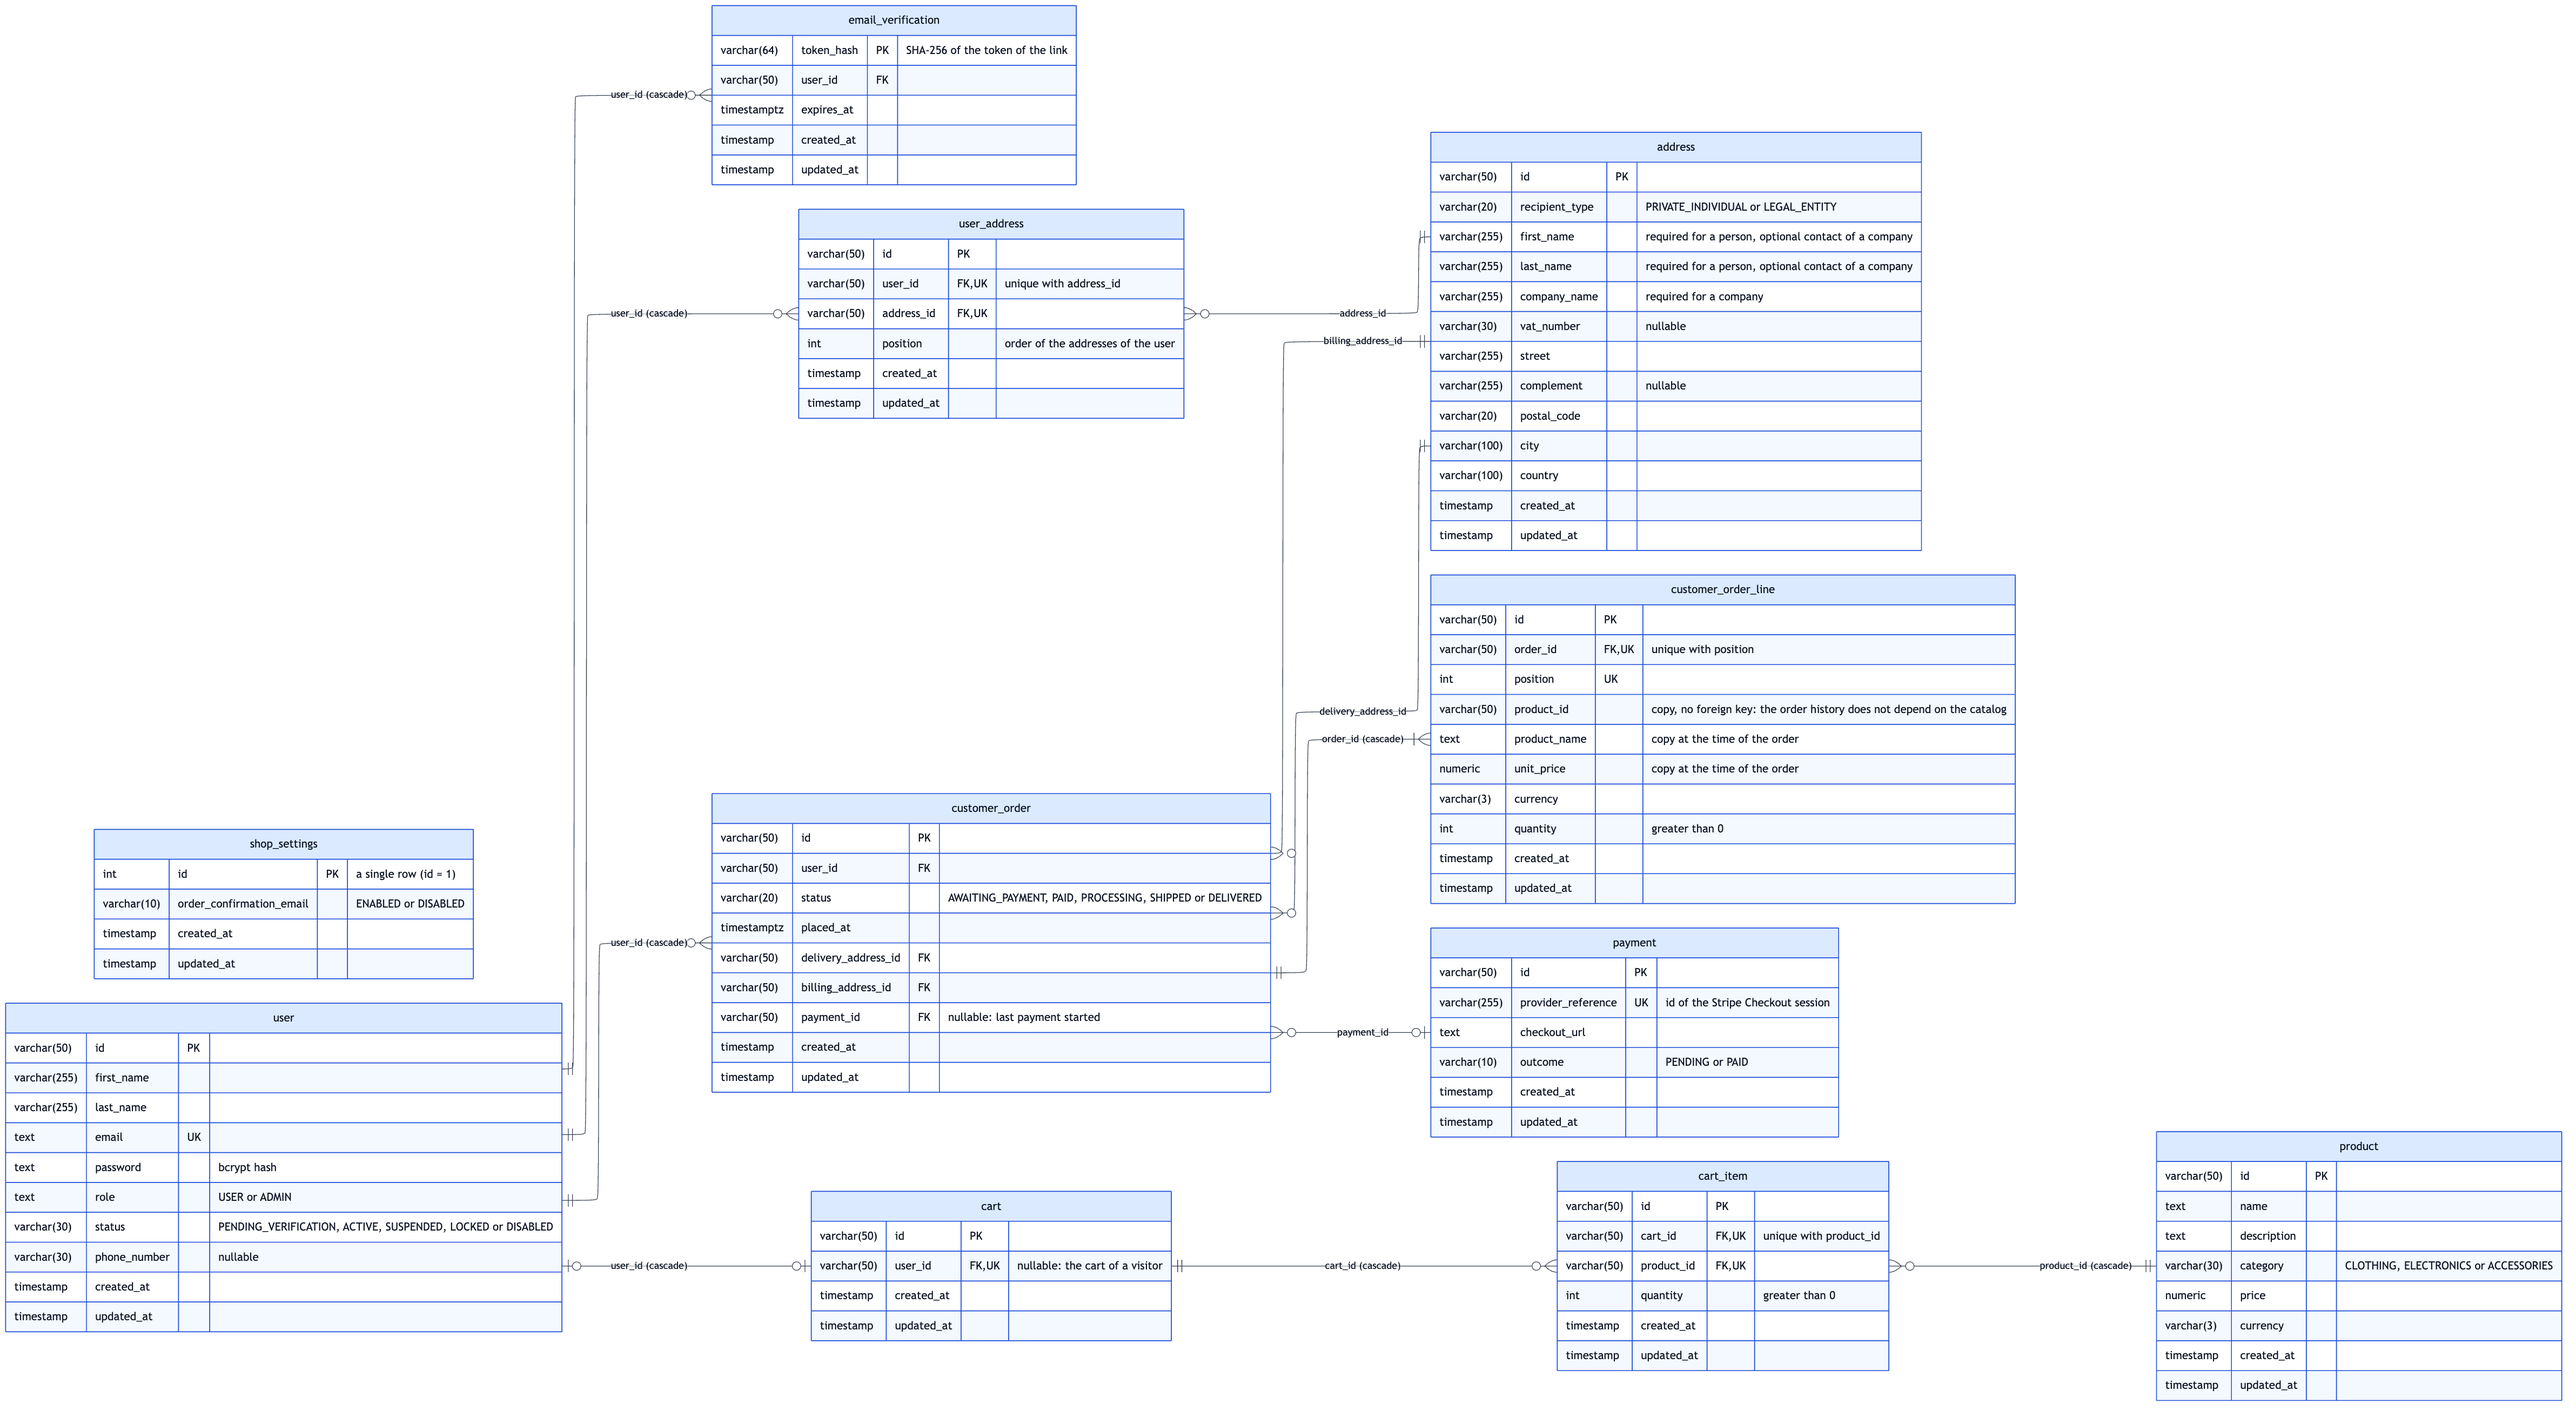
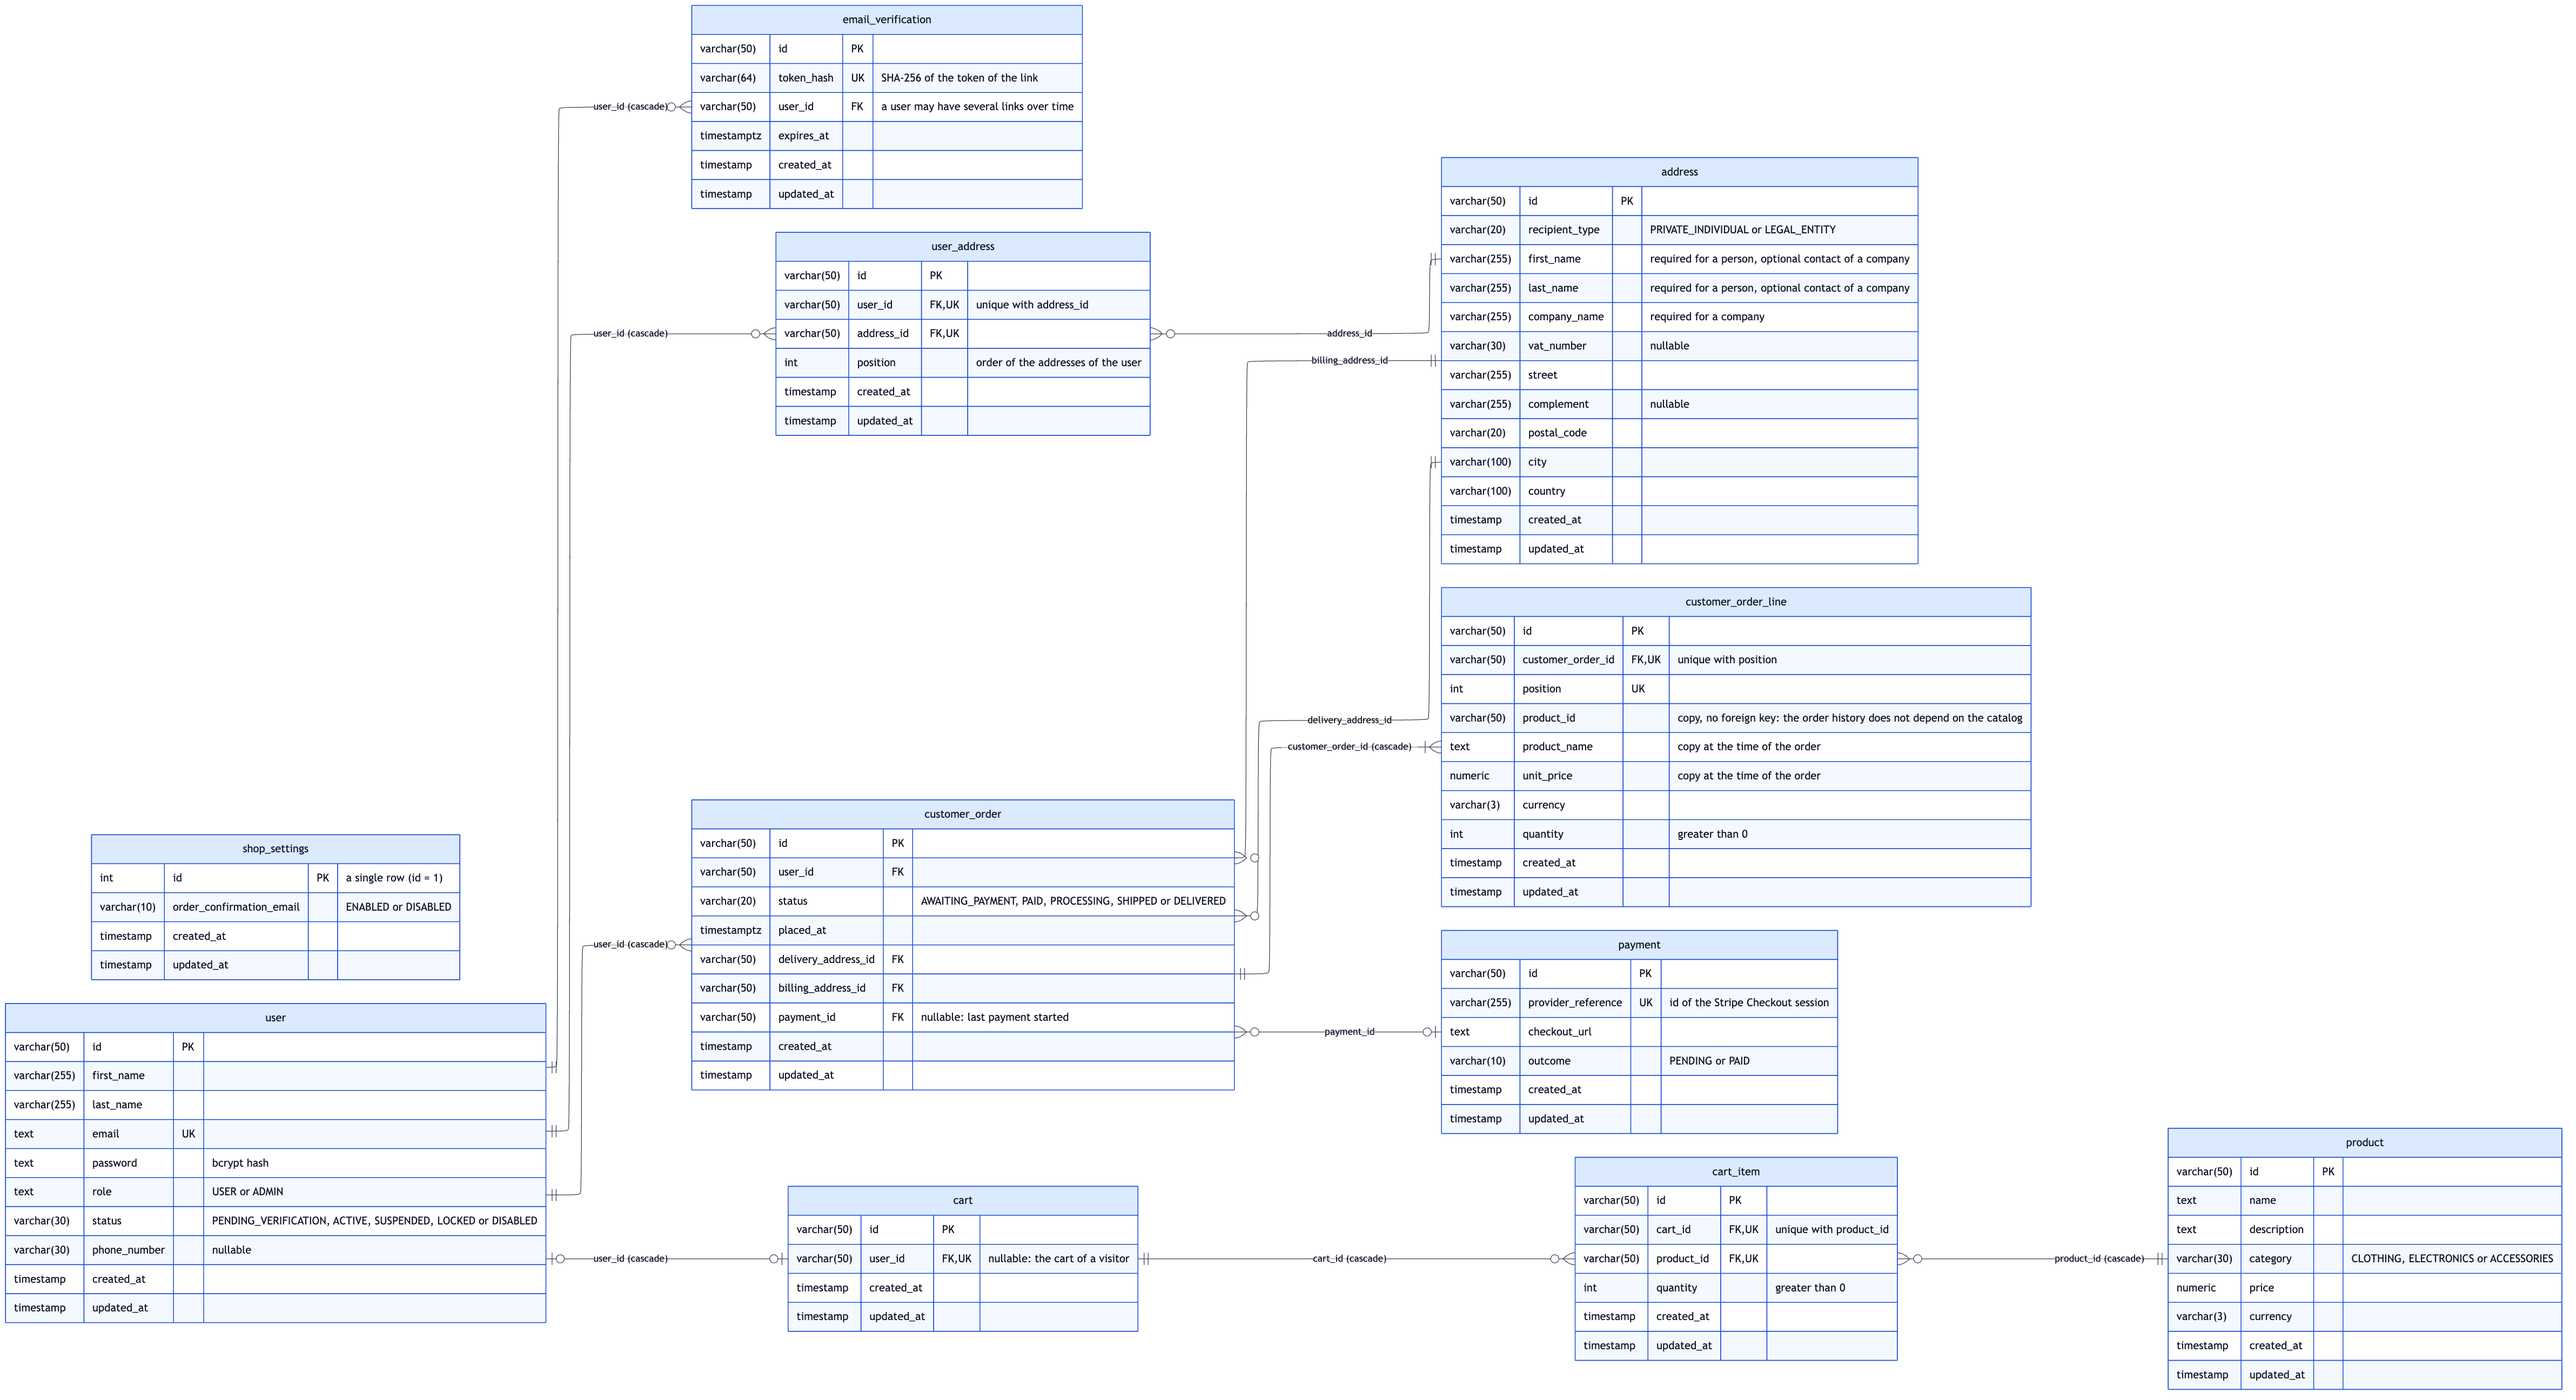
Give email_verification a technical id and name customer_order_line.customer_order_id after its table (V18)
The hash of the token stays unique; email_verification keeps user_id (a user may have several links over
time). The physical data model is updated. Same behaviour.

diff --git a/backend/spring-infra/src/main/kotlin/org/flexstore/infra/spring/adapter/email/EmailRepositoryAdapter.kt b/backend/spring-infra/src/main/kotlin/org/flexstore/infra/spring/adapter/email/EmailRepositoryAdapter.kt
@@ -1,5 +1,6 @@
 package org.flexstore.infra.spring.adapter.email
 
+import org.flexstore.domain.sharedkernel.Identity
 import org.flexstore.domain.email.*
 import org.flexstore.domain.user.model.UserId
 import org.flexstore.infra.spring.adapter.jpa.EmailVerificationEntity
@@ -22,14 +23,19 @@ class EmailRepositoryAdapter(
     override fun send(link: EmailVerificationLink) = emailSender.send(link)
 
     override fun save(verification: EmailVerification) {
-        jpaVerifications.save(EmailVerificationEntity(hash(verification.token), verification.userId.value, verification.expiresAt.value))
+        val verificationEntity = EmailVerificationEntity(
+            Identity.nextId().value,
+            tokenHash = hash(verification.token),
+            userId = verification.userId.value,
+            expiresAt = verification.expiresAt.value
+        )
+        jpaVerifications.save(verificationEntity)
     }
 
     @Transactional(readOnly = true)
     override fun findBy(token: VerificationToken): EmailVerification? =
-        jpaVerifications.findById(hash(token))
-            .map { EmailVerification(UserId.ValidUserId(it.userId), token, ExpirationDate(it.expiresAt)) }
-            .orElse(null)
+        jpaVerifications.findByTokenHash(hash(token))
+            ?.let { EmailVerification(UserId.ValidUserId(it.userId), token, ExpirationDate(it.expiresAt)) }
 
     override fun deleteAllVerificationsOf(userId: UserId) {
         jpaVerifications.deleteAllByUserId(userId.value)

diff --git a/backend/spring-infra/src/main/kotlin/org/flexstore/infra/spring/adapter/jpa/EmailVerificationEntity.kt b/backend/spring-infra/src/main/kotlin/org/flexstore/infra/spring/adapter/jpa/EmailVerificationEntity.kt
@@ -3,12 +3,15 @@ package org.flexstore.infra.spring.adapter.jpa
 import jakarta.persistence.*
 import java.time.Instant
 
+// A verification link sent to a user (a user may have several over time)
 @Entity
 @Table(name = "email_verification")
 data class EmailVerificationEntity(
-    // SHA-256 of the token sent by email, never the token itself
     @Id
-    @Column(name = "token_hash")
+    val id: String,
+
+    // SHA-256 of the token sent by email, never the token itself
+    @Column(name = "token_hash", nullable = false, unique = true, updatable = false)
     val tokenHash: String,
 
     @Column(name = "user_id", nullable = false, updatable = false)

diff --git a/backend/spring-infra/src/main/kotlin/org/flexstore/infra/spring/adapter/jpa/OrderEntity.kt b/backend/spring-infra/src/main/kotlin/org/flexstore/infra/spring/adapter/jpa/OrderEntity.kt
@@ -32,7 +32,7 @@ data class OrderEntity(
     val paymentId: String? = null,
 
     @OneToMany(cascade = [CascadeType.ALL], orphanRemoval = true, fetch = FetchType.EAGER)
-    @JoinColumn(name = "order_id", nullable = false)
+    @JoinColumn(name = "customer_order_id", nullable = false)
     @OrderBy("position")
     val lines: List<OrderLineEntity> = emptyList()
 ) : TimestampedEntity()

diff --git a/backend/spring-infra/src/main/kotlin/org/flexstore/infra/spring/adapter/jpa/JpaEmailVerificationRepository.kt b/backend/spring-infra/src/main/kotlin/org/flexstore/infra/spring/adapter/jpa/JpaEmailVerificationRepository.kt
@@ -7,6 +7,8 @@ import org.springframework.stereotype.Repository
 // The verifications of the email addresses, used by the EmailRepositoryAdapter
 @Repository
 interface JpaEmailVerificationRepository : JpaRepository<EmailVerificationEntity, String> {
+    fun findByTokenHash(tokenHash: String): EmailVerificationEntity?
+
     @Modifying
     fun deleteAllByUserId(userId: String)
 }

diff --git a/docs/database.md b/docs/database.md
@@ -1,6 +1,6 @@
 # Physical data model
 
-The PostgreSQL schema of Flexstore, as created by the Flyway migrations of `backend/migrations` (last migration: **V17**). Update this diagram in the same pull request as any migration that changes the schema (see the `database-convention` skill).
+The PostgreSQL schema of Flexstore, as created by the Flyway migrations of `backend/migrations` (last migration: **V18**). Update this diagram in the same pull request as any migration that changes the schema (see the `database-convention` skill).
 
 ![Physical data model](database.png)
 
@@ -25,8 +25,9 @@ erDiagram
     }
 
     email_verification {
-        varchar(64) token_hash PK "SHA-256 of the token of the link"
-        varchar(50) user_id FK
+        varchar(50) id PK
+        varchar(64) token_hash UK "SHA-256 of the token of the link"
+        varchar(50) user_id FK "a user may have several links over time"
         timestamptz expires_at
         timestamp created_at
         timestamp updated_at
@@ -87,7 +88,7 @@ erDiagram
 
     customer_order_line {
         varchar(50) id PK
-        varchar(50) order_id FK,UK "unique with position"
+        varchar(50) customer_order_id FK,UK "unique with position"
         int position UK
         varchar(50) product_id "copy, no foreign key: the order history does not depend on the catalog"
         text product_name "copy at the time of the order"
@@ -132,7 +133,7 @@ erDiagram
     customer_order }o--|| address : "delivery_address_id"
     customer_order }o--|| address : "billing_address_id"
     customer_order }o--o| payment : "payment_id"
-    customer_order ||--|{ customer_order_line : "order_id (cascade)"
+    customer_order ||--|{ customer_order_line : "customer_order_id (cascade)"
     user |o--o| cart : "user_id (cascade)"
     cart ||--o{ cart_item : "cart_id (cascade)"
     cart_item }o--|| product : "product_id (cascade)"
@@ -143,4 +144,3 @@ erDiagram
 - Every table has a technical primary key `id` (generated by the application), and the creation and last update dates `created_at` / `updated_at` (set by Hibernate).
 - An `address` belongs to no user: the users refer to their addresses through `user_address`, the orders through `delivery_address_id` and `billing_address_id`. Editing an address creates a new row, removing it from a user deletes only its `user_address` row: an order always keeps the address it was delivered and billed to.
 - `user` is quoted in SQL (`"user"`), a reserved word; the orders are stored in `customer_order` for the same reason.
-- Not yet in line with the `database-convention` skill: `email_verification` has the token hash as primary key (instead of an `id`, referenced from `"user".email_verification_id`), and `customer_order_line.order_id` is not named after the table it references (`customer_order_id`).
